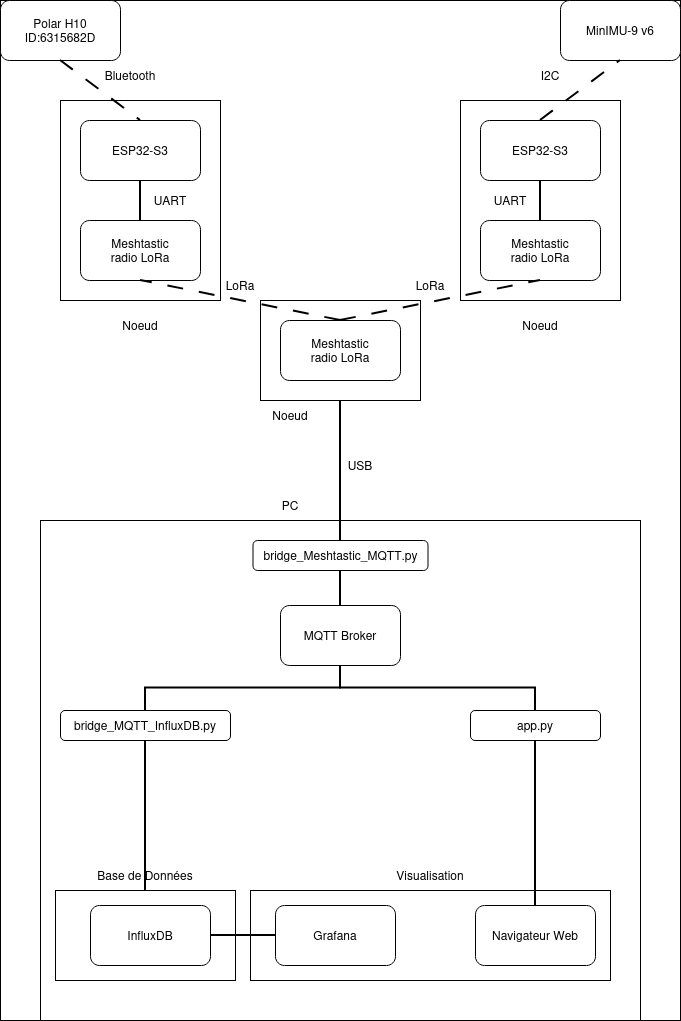
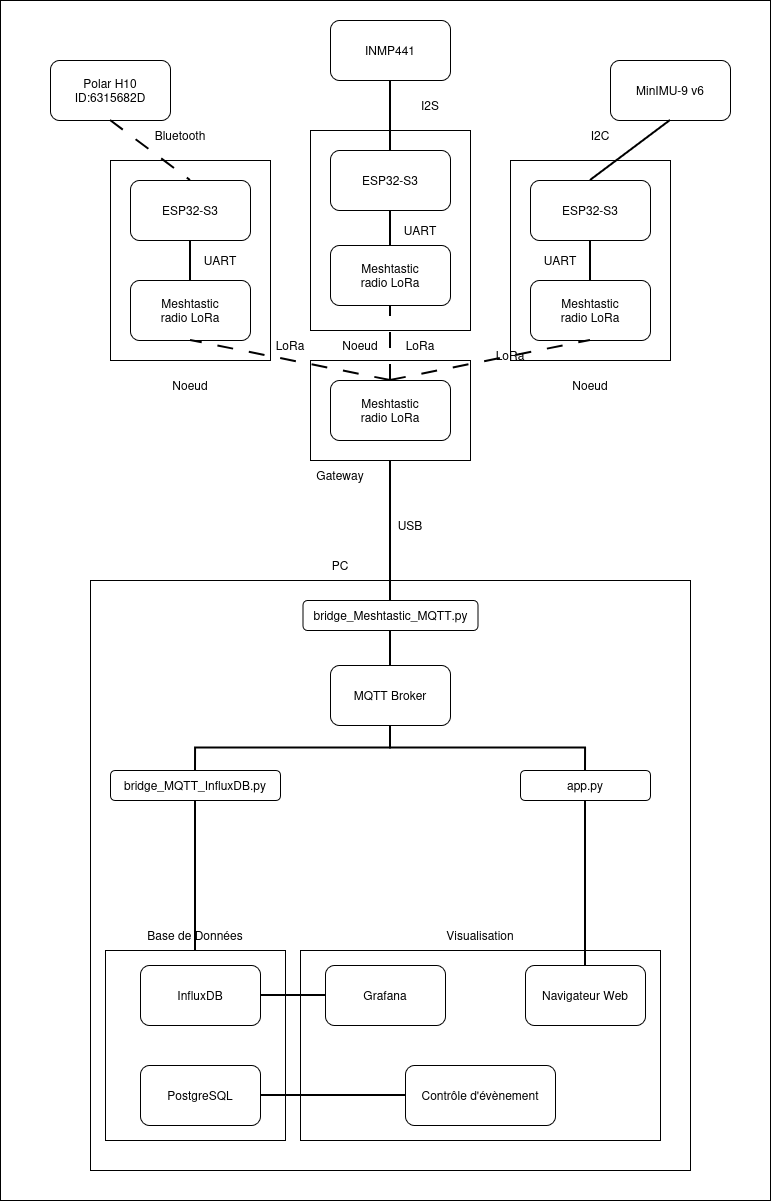
Mise à jour de la documentation

diff --git a/Server/Web/templates/Dashboard/comparison.html b/Server/Web/templates/Dashboard/comparison.html
@@ -4,7 +4,7 @@
         <meta charset="UTF-8">
         <title>Comparaison</title>
         <link rel="stylesheet" href="{{ url_for('static', filename='css/base.css') }}">
-        <link rel="stylesheet" href="{{ url_for('static', filename='css/Dashboard/comparaison.css') }}">
+        <link rel="stylesheet" href="{{ url_for('static', filename='css/Dashboard/comparison.css') }}">
         <style>
             :root 
             {

diff --git a/Documentation/main.md b/Documentation/main.md
@@ -50,8 +50,18 @@ Projet de Monitoring pour Supporters de Football
 │   │   ├── schema_MinIMU-9_v6.png
 │   │   └── architecture.png
 │   │
+│   ├── Images
+│   │   └── postgreSQL.sql
+│   │
 │   └── Data
+│       ├── Event-Configuration
+│       │   ├── Amical.json
+│       │   ├── Championat.json
+│       │   ├── Coupe de France.json
+│       │   └── Default.json
+│       │
 │       ├── capteur.json
+│       ├── event.json
 │       ├── supporter.json
 │       ├── stadiumBleacher.json
 │       └── topicMQTT.json
@@ -138,6 +148,7 @@ Projet de Monitoring pour Supporters de Football
 │   │   ├── influxdb.py
 │   │   ├── meshtastic.py
 │   │   ├── mqtt.py
+│   │   ├── postgresql.py
 │   │   └── exception.py
 │   │
 │   ├── Bridge
@@ -146,31 +157,56 @@ Projet de Monitoring pour Supporters de Football
 │   │
 │   ├── Dashboard
 │   │   ├── templates               // Fichiers HTML pour le serveur web
-│   │   │   ├── index.html
-│   │   │   ├── supporter.html
-│   │   │   ├── stadiumBleacher
-│   │   │   ├── comparaison.html
-│   │   │   └── error.html
+│   │   │   ├── Control
+│   │   │   │   ├── configuration.html
+│   │   │   │   ├── error.html
+│   │   │   │   ├── event.html
+│   │   │   │   └── preparation.html
+│   │   │   │
+│   │   │   └── Dashboard
+│   │   │       ├── index.html
+│   │   │       ├── supporter.html
+│   │   │       ├── stadiumBleacher.html
+│   │   │       └── comparison.html
 │   │   │
 │   │   ├── static                  // Fichiers utilisé par le serveur web
 │   │   │   ├── css
-│   │   │   │   ├── base.css
-│   │   │   │   ├── index.css
-│   │   │   │   ├── supporter.css
-│   │   │   │   ├── stadiumBleacher.css
-│   │   │   │   ├── comparaison.css
-│   │   │   │   └── error.css
+│   │   │   │   ├── Control
+│   │   │   │   │   ├── configuration.css
+│   │   │   │   │   ├── error.css
+│   │   │   │   │   ├── event.css
+│   │   │   │   │   └── preparation.css
+│   │   │   │   │
+│   │   │   │   ├── Dashboard
+│   │   │   │   │   ├── comparison.css
+│   │   │   │   │   ├── index.css
+│   │   │   │   │   ├── stadiumBleacher.css
+│   │   │   │   │   └── supporter.css
+│   │   │   │   │
+│   │   │   │   └── base.css
 │   │   │   │
 │   │   │   ├── js
-│   │   │   │   ├── index.js
-│   │   │   │   ├── supporter.js
-│   │   │   │   ├── stadiumBleacher.js
-│   │   │   │   ├── comparaison.js
+│   │   │   │   ├── Control
+│   │   │   │   │   ├── configuration.js
+│   │   │   │   │   ├── event.js
+│   │   │   │   │   └── preparation.js
+│   │   │   │   │
+│   │   │   │   ├── Dashboard
+│   │   │   │   │   ├── comparison.js
+│   │   │   │   │   ├── index.js
+│   │   │   │   │   ├── stadiumBleacher.js
+│   │   │   │   │   └── supporter.js
+│   │   │   │   │
 │   │   │   │   └── Utils
 │   │   │   │       ├── time.js
-│   │   │   │       ├── color.js
 │   │   │   │       ├── stringConversion.js
-│   │   │   │       └── board.js
+│   │   │   │       └── element.js
+│   │   │   │
+│   │   │   ├── icon
+│   │   │   │   ├── delete-dark.png
+│   │   │   │   ├── delete-light.png
+│   │   │   │   ├── modify-dark.png
+│   │   │   │   └── modify-light.png
 │   │   │   │
 │   │   │   └── lib                 // Fichiers de bibliothèque externe
 │   │   │       ├── chart.umd.min.js
@@ -185,13 +221,23 @@ Projet de Monitoring pour Supporters de Football
 │   │   ├── display.py
 │   │   ├── logger.py
 │   │   ├── topic.py
+│   │   ├── time.py
+│   │   ├── event.py
 │   │   └── state.py
 │   │
+│   ├── Dockerfile              // Fichier de configuration de Docker
 │   └── Doxyfile                // Fichier de configuration de Doxygen
 │
 ├── Tests
-│   ├── Software
-│   ├── Hardware
+│   ├── DataSimulationServer
+│   │   ├── Simulation
+│   │   │   ├── heartRateSimulator.py
+│   │   │   ├── acousticSimulator.py
+│   │   │   └── accelerometerGyroscopeSimulator.py 
+│   │   │
+│   │   ├── run.py
+│   │   └── Dockerfile
+│   │
 │   └── Distance
 │       ├── Flash
 │       │   ├── device.sh
@@ -213,16 +259,19 @@ Projet de Monitoring pour Supporters de Football
 │       │
 │       └── log.py
 │
+├── Scripts
+│   ├── envcrypt.sh             // Script de chiffrement de fichier
+│   ├── logviewer.sh            // Script de visualisation de log
+│   ├── readSerialLog.sh        // Script de récupération des logs des cartes ESP32
+│   ├── flash.sh                // Script de flash des cartes ESP32
+│   └── out.sh
+│
 ├── .Flash                      // Fichier de configuration des cartes
-│   ├── device.sh
-│   ├── meshtastic.sh
 │   └── firmware-seeed-xiao-s3-2.7.15.567b8ea.bin
 │
 ├── .env                        // Fichier de variables d'environnement
 ├── .env.encrypted              // Fichier de variables d'environnement chiffré
-├── envcrypt.sh                 // Script de chiffrement de fichier
-├── logviewer.sh                // Script de visualisation de log
-├── readSerialLog.sh            // Script de récupération des logs des cartes ESP32
+├── docker-compose.yml          // Fichier de configuration de docker
 ├── Makefile                    // Fichier de build automatique
 ├── user_manual.md              // Manuel utilisateur
 └── README.md                   // Fichier principal d'information

diff --git a/Documentation/equipment.md b/Documentation/equipment.md
@@ -69,9 +69,10 @@ Description :
 
 # Serveur
 
-| Service   | Port | Protocole      | Usage                                  |
-|-----------|------|----------------|----------------------------------------|
-| Mosquitto | 1883 | MQTT           | Transfert de messages au broker        |
-| InfluxDB  | 8086 | HTTP           | API de la base de données              |
-| Grafana   | 3000 | HTTP           | Interface de visualisation des données |
-| Dashboard | 5001 | HTTP/WebSocket | Interface de visualisation des données |
+| Service    | Port | Protocole      | Usage                                  |
+|------------|------|----------------|----------------------------------------|
+| Mosquitto  | 1883 | MQTT           | Transfert de messages au broker        |
+| InfluxDB   | 8086 | HTTP           | API de la base de données              |
+| Grafana    | 3000 | HTTP           | Interface de visualisation des données |
+| Dashboard  | 5001 | HTTP/WebSocket | Interface de visualisation des données |
+| PostgreSQL | 5432 | TCP/IP         | Base de données                        |

diff --git a/Documentation/test.md b/Documentation/test.md
@@ -1,3 +1,5 @@
 # Tests
 
-(Test de mise à l'échelle, distance, ...)
+# Lancer les tests de simulations
+
+Pour lancer les tests de simulations il faut taper `make test` à la racine du projet. Cela va lancer un script python en tâche de fond, qui envoi des données toutes les secondes sur le brocker MQTT.

diff --git a/README.md b/README.md
@@ -31,3 +31,4 @@ Le projet de monitoring pour supporters de football est la réalisation d'une co
 - Collect d'information système
 - Affichage des statistiques des données des utilisateurs
 - Affichage des statistiques des données des tribunes du stade
+- Gestion des évènements du match en direct

diff --git a/Documentation/development.md b/Documentation/development.md
@@ -29,7 +29,7 @@ Pour flash une carte utiliser la commande `bash Scripts/flash.sh` à la racine d
 
 ## Tests
 
-TODO
+- Test de simulation de données
 
 ## Collaboration sur le projet
 
